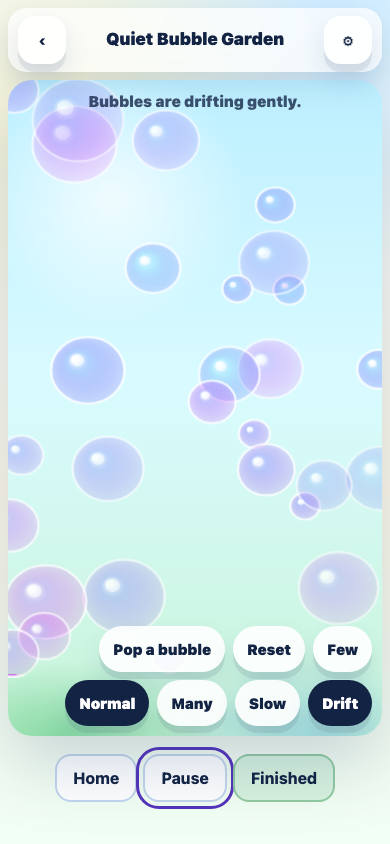
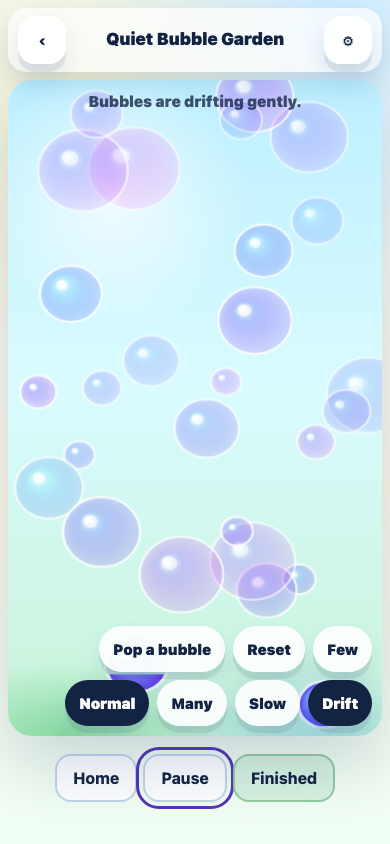
Add V2 route lifecycle stress check

diff --git a/js/v2-game-shell.js b/js/v2-game-shell.js
@@ -44,6 +44,7 @@ class LeonSalGameShell {
     this.dialog.addEventListener('cancel', (event) => { event.preventDefault(); this.resume(); }, options);
     document.addEventListener('visibilitychange', () => { if (document.hidden) this.pause(); }, options);
     window.addEventListener('pagehide', () => this.pause(), options);
+    document.body.dataset.paused = 'false';
     this.settingsPanel?.setAttribute('role', 'group');
     this.settingsPanel?.setAttribute('aria-label', 'Sensory settings');
     this.settingsToggle?.setAttribute('aria-controls', 'settings');

diff --git a/docs/LEONSAL_COMPLETION_CHECKLIST.md b/docs/LEONSAL_COMPLETION_CHECKLIST.md
@@ -38,18 +38,19 @@
 - [x] Add route-level mobile accessibility smoke for the V2 home, eight current V2 activities and the offline fallback at 390x844, including touch target size, accessible names, keyboard settings close, reduced-motion cap, labelled canvases, horizontal overflow and blocked-art request checks.
 - [x] Verify the internal character review surface in Chromium and WebKit across phone, tablet and desktop widths, including vector review derivatives, missing-state fallback, dark-background inspection, reference lazy-load and no review-art leakage into gameplay.
 - [x] Add local-only V2 child profile switching for caregiver activity notes, with separate per-profile storage, no score/mastery claims, no medical/sensory-label inference, and mobile browser smoke evidence.
+- [x] Add repeated V2 route lifecycle stress coverage for all eight current activities, proving one active shell/control set per route, no leaked pause/inert state, reduced-motion reapplication, and no console/page errors across 24 mobile navigations.
 
 These changes remain preview work. They do not approve character art, claim production deployment, or complete all foundation contracts.
 
 ## Required remaining foundation work
 
 - [ ] Reconcile the static proof architecture with the adopted Vite/TypeScript modular build target; pin test/build dependencies and add reproducible lockfile/CI.
-- [ ] Complete full game-module preload/mount/start/pause/resume/reset/settings/destroy lifecycle, resource ownership, and repeat-route cleanup tests. The current shared session wrapper handles pause/finish but is not the entire module architecture.
+- [ ] Complete full game-module preload/mount/start/pause/resume/reset/settings/destroy lifecycle, resource ownership, and repeat-route cleanup tests. The current shared session wrapper handles pause/finish and now has repeated-route cleanup stress coverage, but this is still not the entire module architecture.
 - [x] Bridge legacy and V2 sensory preference stores for core controls. V2 now validates and exposes motion, sound, voice, music, vibration, calm mode, particles, speed, contrast and pace; the legacy home reads/writes shared motion, sound, vibration and contrast settings. Independent audio levels and deeper profile migration remain outstanding.
 - [x] Implement and verify eight foundation engine contracts: memory-recall, physics-play, character-state-animation, world-shell-progress, asset-loader, performance-monitor, profile-progress-store, hint-feedback. These are foundation primitives, not completed games.
 - [ ] Complete parent/profile controls, full error recovery and full offline behaviour. Local V2 activity notes now support separate local child profiles, and the safe V2 route cache plus navigation-only offline fallback avoid false saved/mastery claims; full caregiver controls and full offline UX are still not complete.
 - [ ] Implement Sensory Mixer using global preference ceilings; presets do not count as games.
-- [ ] Verify repeated route transitions, background suspension, full accessibility and physical iPhone Safari. Viewport-emulated cleanup, accessibility and performance/long-task smoke checks now exist, but physical-device and full screen-reader evidence are still required.
+- [ ] Verify repeated route transitions, background suspension, full accessibility and physical iPhone Safari. Viewport-emulated repeated-route cleanup, accessibility and performance/long-task smoke checks now exist, but physical-device and full screen-reader evidence are still required.
 
 ## Character production requirements
 
